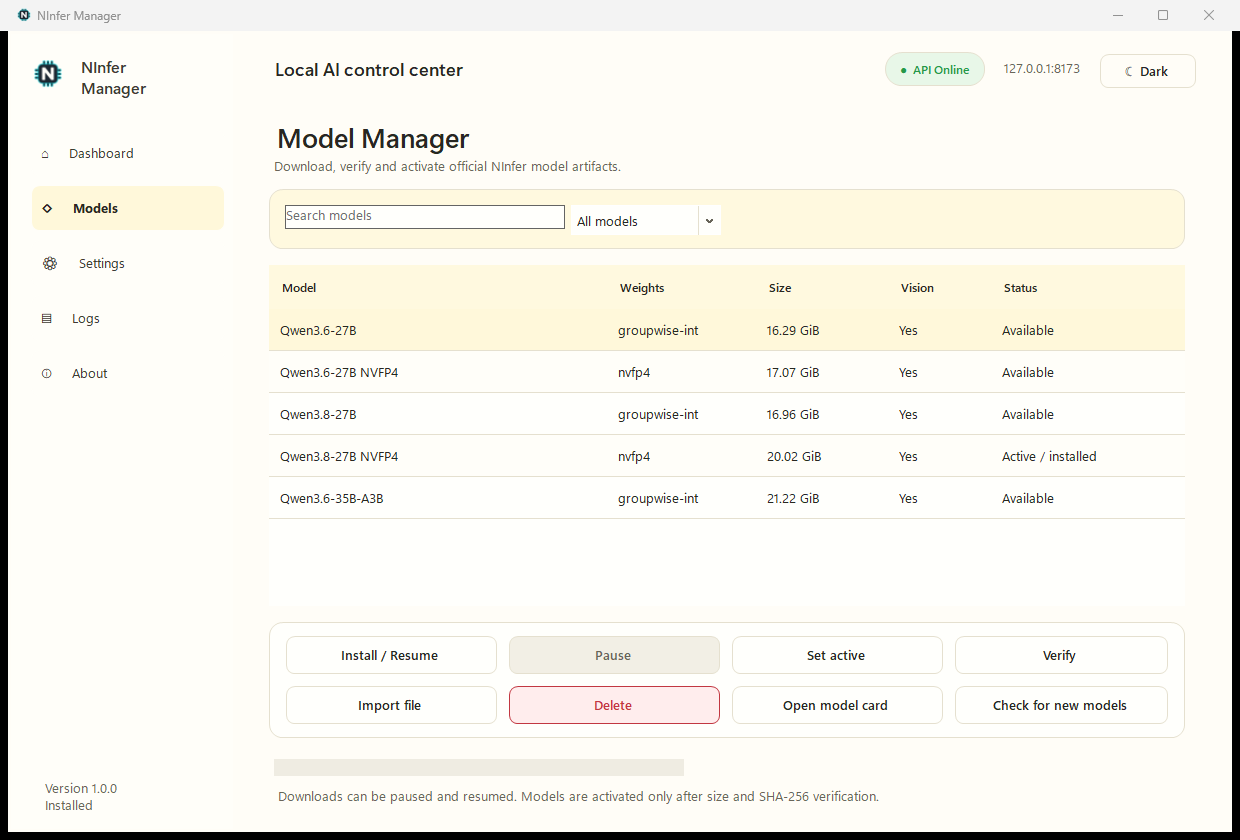
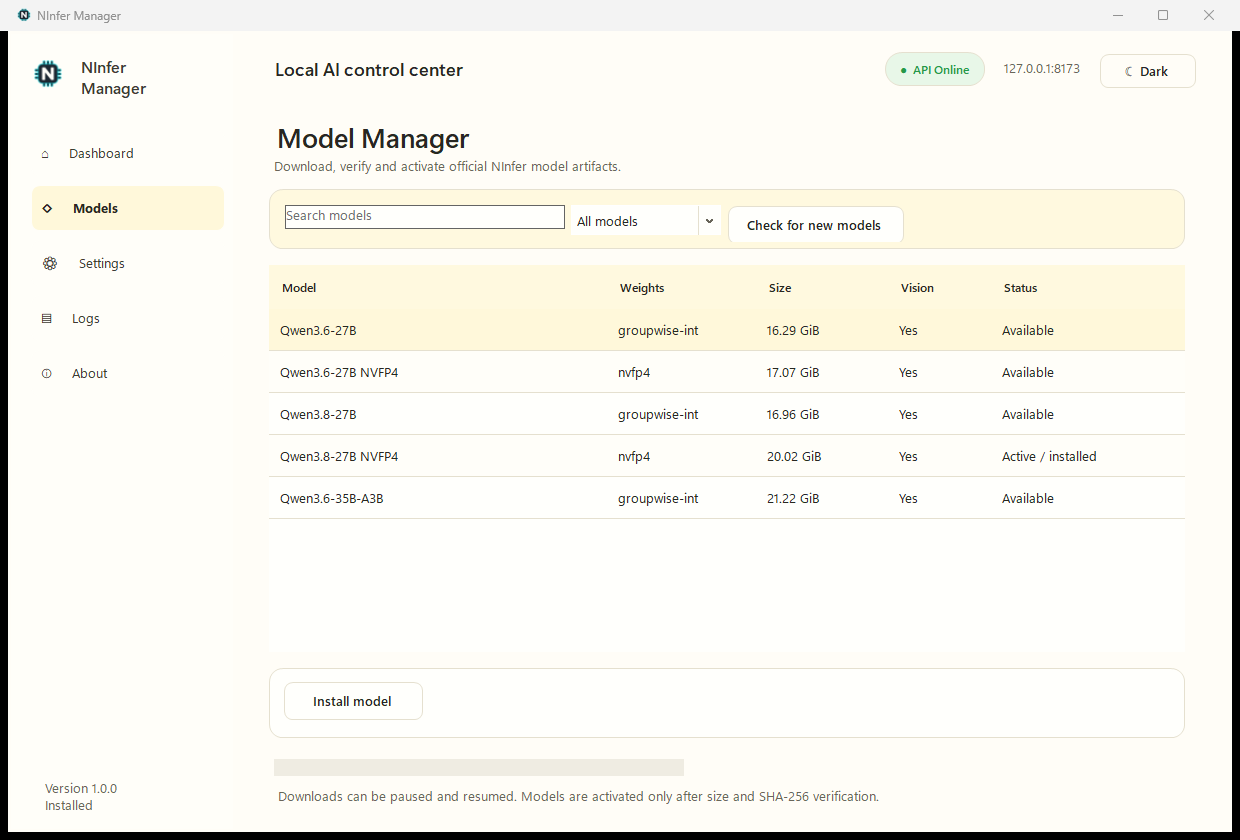
Show only relevant model actions

diff --git a/src/NInferManager/MainForm.cs b/src/NInferManager/MainForm.cs
@@ -50,6 +50,12 @@ internal sealed class MainForm : Form
     private readonly Label _modelProgressText = UiTheme.Role(new Label { Dock = DockStyle.Fill, TextAlign = ContentAlignment.MiddleLeft, AutoEllipsis = true }, ThemeRole.MutedText);
     private readonly Button _installButton = Button("Install / Resume");
     private readonly Button _cancelDownloadButton = Button("Pause", false);
+    private readonly Button _setActiveButton = Button("Set active");
+    private readonly Button _verifyButton = Button("Verify");
+    private readonly Button _deleteButton = Button("Delete", danger: true);
+    private readonly Button _openModelCardButton = Button("Open model card");
+    private readonly Button _refreshCatalogButton = Button("Check for new models");
+    private readonly RoundedPanel _modelActionsCard = UiTheme.Card();
     private readonly PropertyGrid _appPropertyGrid = new() { Dock = DockStyle.Fill, PropertySort = PropertySort.Categorized, HelpVisible = true, ToolbarVisible = true };
     private readonly PropertyGrid _profilePropertyGrid = new() { Dock = DockStyle.Fill, PropertySort = PropertySort.Categorized, HelpVisible = true, ToolbarVisible = true };
     private readonly ComboBox _profileModel = new ThemedComboBox { DropDownStyle = ComboBoxStyle.DropDownList, Width = 320 };
@@ -80,6 +86,7 @@ internal sealed class MainForm : Form
     private readonly ContextMenuStrip _trayMenu = new();
     private readonly System.Windows.Forms.Timer _visibleTimer = new() { Interval = 1000 };
     private CancellationTokenSource? _downloadCancellation;
+    private string? _downloadingModelFile;
     private CancellationTokenSource? _updateCancellation;
     private UpdateInfo? _availableUpdate;
     private bool _realExit;
@@ -312,7 +319,8 @@ internal sealed class MainForm : Form
         var filterCard = UiTheme.Card(ThemeRole.SurfaceAlt); filterCard.Dock = DockStyle.Top; filterCard.Height = 62; filterCard.Padding = new Padding(14, 8, 14, 8);
         var filters = Flow();
         _modelSearch.TextChanged += (_, _) => RefreshModels(); _modelFilter.SelectedIndexChanged += (_, _) => RefreshModels();
-        filters.Controls.Add(_modelSearch); filters.Controls.Add(_modelFilter); filterCard.Controls.Add(filters); root.Controls.Add(filterCard, 0, 1);
+        _refreshCatalogButton.Click += async (_, _) => await RefreshCatalogAsync();
+        filters.Controls.Add(_modelSearch); filters.Controls.Add(_modelFilter); filters.Controls.Add(_refreshCatalogButton); filterCard.Controls.Add(filters); root.Controls.Add(filterCard, 0, 1);
         _modelsGrid.Dock = DockStyle.Fill; _modelsGrid.ReadOnly = true; _modelsGrid.AllowUserToAddRows = false; _modelsGrid.AllowUserToDeleteRows = false;
         _modelsGrid.AutoGenerateColumns = false; _modelsGrid.SelectionMode = DataGridViewSelectionMode.FullRowSelect; _modelsGrid.MultiSelect = false;
         _modelsGrid.RowHeadersVisible = false; _modelsGrid.AutoSizeColumnsMode = DataGridViewAutoSizeColumnsMode.Fill;
@@ -324,19 +332,15 @@ internal sealed class MainForm : Form
         _modelsGrid.Columns.Add(new DataGridViewTextBoxColumn { DataPropertyName = "Status", HeaderText = "Status", FillWeight = 105 });
         _modelsGrid.SelectionChanged += (_, _) => RefreshModelButtons();
         var gridCard = UiTheme.Card(); gridCard.Dock = DockStyle.Fill; gridCard.Padding = new Padding(1); gridCard.Controls.Add(_modelsGrid); root.Controls.Add(gridCard, 0, 2);
-        var actionsCard = UiTheme.Card(); actionsCard.Dock = DockStyle.Top; actionsCard.Height = 118; actionsCard.Padding = new Padding(12, 9, 12, 9);
-        var actions = new TableLayoutPanel { Dock = DockStyle.Fill, ColumnCount = 4, RowCount = 2 };
-        for (var column = 0; column < 4; column++) actions.ColumnStyles.Add(new ColumnStyle(SizeType.Percent, 25));
-        actions.RowStyles.Add(new RowStyle(SizeType.Percent, 50)); actions.RowStyles.Add(new RowStyle(SizeType.Percent, 50));
-        _installButton.Click += async (_, _) => await StartDownloadAsync(); AddModelAction(actions, _installButton, 0, 0);
-        _cancelDownloadButton.Click += (_, _) => _downloadCancellation?.Cancel(); AddModelAction(actions, _cancelDownloadButton, 1, 0);
-        AddModelAction(actions, ActionButton("Set active", SetSelectedActiveAsync), 2, 0);
-        AddModelAction(actions, ActionButton("Verify", VerifySelectedAsync), 3, 0);
-        AddModelAction(actions, ActionButton("Import file", ImportSelectedAsync), 0, 1);
-        AddModelAction(actions, ActionButton("Delete", DeleteSelectedAsync, danger: true), 1, 1);
-        AddModelAction(actions, ActionButton("Open model card", () => { var e = SelectedEntry(); if (e is not null) OpenUrl(e.ModelCardUrl); return Task.CompletedTask; }), 2, 1);
-        AddModelAction(actions, ActionButton("Check for new models", RefreshCatalogAsync), 3, 1);
-        actionsCard.Controls.Add(actions); root.Controls.Add(actionsCard, 0, 3);
+        _modelActionsCard.Dock = DockStyle.Top; _modelActionsCard.Height = 72; _modelActionsCard.Padding = new Padding(12, 9, 12, 9);
+        var actions = new FlowLayoutPanel { Dock = DockStyle.Fill, WrapContents = false, Padding = new Padding(0, 2, 0, 0) };
+        _installButton.Click += async (_, _) => await StartDownloadAsync(); actions.Controls.Add(_installButton);
+        _cancelDownloadButton.Click += (_, _) => _downloadCancellation?.Cancel(); actions.Controls.Add(_cancelDownloadButton);
+        _setActiveButton.Click += async (_, _) => await RunButtonActionAsync(_setActiveButton, SetSelectedActiveAsync); actions.Controls.Add(_setActiveButton);
+        _verifyButton.Click += async (_, _) => await RunButtonActionAsync(_verifyButton, VerifySelectedAsync); actions.Controls.Add(_verifyButton);
+        _deleteButton.Click += async (_, _) => await RunButtonActionAsync(_deleteButton, DeleteSelectedAsync); actions.Controls.Add(_deleteButton);
+        _openModelCardButton.Click += (_, _) => { var entry = SelectedEntry(); if (entry is not null) OpenUrl(entry.ModelCardUrl); }; actions.Controls.Add(_openModelCardButton);
+        _modelActionsCard.Controls.Add(actions); root.Controls.Add(_modelActionsCard, 0, 3);
         var progress = new TableLayoutPanel { Dock = DockStyle.Fill, ColumnCount = 2, AutoSize = true };
         progress.ColumnStyles.Add(new ColumnStyle(SizeType.Percent, 45)); progress.ColumnStyles.Add(new ColumnStyle(SizeType.Percent, 55));
         progress.Controls.Add(_modelProgress, 0, 0); progress.Controls.Add(_modelProgressText, 1, 0); root.Controls.Add(progress, 0, 4);
@@ -597,7 +601,27 @@ internal sealed class MainForm : Form
     }
 
     private ModelCatalogEntry? SelectedEntry() => (_modelsGrid.CurrentRow?.DataBoundItem as ModelRow)?.Entry;
-    private void RefreshModelButtons() { _installButton.Enabled = SelectedEntry() is not null && _downloadCancellation is null; }
+    private void RefreshModelButtons()
+    {
+        var entry = SelectedEntry();
+        _modelActionsCard.Visible = entry is not null;
+        if (entry is null) return;
+        var installed = _downloads.IsInstalled(entry);
+        var active = _settings.ActiveModelFile.Equals(entry.FileName, StringComparison.OrdinalIgnoreCase);
+        var downloading = _downloadCancellation is not null && string.Equals(_downloadingModelFile, entry.FileName, StringComparison.OrdinalIgnoreCase);
+        var partial = File.Exists(_downloads.GetModelPath(entry) + ".part");
+
+        _installButton.Text = partial ? "Resume download" : "Install model";
+        _installButton.AccessibleName = _installButton.Text;
+        _installButton.Visible = !installed && !downloading;
+        _installButton.Enabled = _downloadCancellation is null;
+        _cancelDownloadButton.Visible = downloading;
+        _cancelDownloadButton.Enabled = downloading;
+        _setActiveButton.Visible = installed && !active;
+        _verifyButton.Visible = installed;
+        _deleteButton.Visible = installed;
+        _openModelCardButton.Visible = installed;
+    }
 
     private async Task StartDownloadAsync()
     {
@@ -607,12 +631,12 @@ internal sealed class MainForm : Form
                 "This model was discovered in the official upstream catalog after this Manager release. It may require a newer NInfer engine. Continue with the download?",
                 "New upstream model", MessageBoxButtons.YesNo, MessageBoxIcon.Information) != DialogResult.Yes) return;
         _downloadCancellation = new CancellationTokenSource();
-        _cancelDownloadButton.Enabled = true; _installButton.Enabled = false;
+        _downloadingModelFile = entry.FileName; RefreshModelButtons();
         var progress = new Progress<DownloadProgress>(p => { _modelProgress.Value = p.Percent; _modelProgressText.Text = p.Description + (p.BytesPerSecond > 0 ? $" — {p.BytesPerSecond / 1024d / 1024d:0.0} MiB/s" : ""); });
         try { await _downloads.DownloadAsync(entry, progress, _downloadCancellation.Token); MessageBox.Show("The model was downloaded and verified successfully.", Text); }
         catch (OperationCanceledException) { _modelProgressText.Text = "Download paused. Select Install / Resume to continue."; }
         catch (Exception exception) { _logger.Write("Model download failed", exception); MessageBox.Show(exception.Message, "Download failed", MessageBoxButtons.OK, MessageBoxIcon.Error); }
-        finally { _downloadCancellation.Dispose(); _downloadCancellation = null; _cancelDownloadButton.Enabled = false; RefreshModels(); }
+        finally { _downloadCancellation.Dispose(); _downloadCancellation = null; _downloadingModelFile = null; RefreshModels(); }
     }
 
     private async Task SetSelectedActiveAsync()
@@ -647,7 +671,9 @@ internal sealed class MainForm : Form
         var entry = SelectedEntry(); if (entry is null) return;
         if (MessageBox.Show($"Move {entry.DisplayName} to the Recycle Bin?", "Delete model", MessageBoxButtons.YesNo, MessageBoxIcon.Warning) != DialogResult.Yes) return;
         if (_engine.IsLoaded && _settings.ActiveModelFile.Equals(entry.FileName, StringComparison.OrdinalIgnoreCase)) await _engine.UnloadAsync("active model deletion");
-        _downloads.Delete(entry); RefreshModels();
+        _downloads.Delete(entry);
+        if (_settings.ActiveModelFile.Equals(entry.FileName, StringComparison.OrdinalIgnoreCase)) { _settings.ActiveModelFile = string.Empty; _settingsStore.Save(_settings); }
+        RefreshModels(); RefreshUi();
     }
 
     private async Task RefreshCatalogAsync()
@@ -909,16 +935,7 @@ internal sealed class MainForm : Form
         table.Controls.Add(UiTheme.Role(new Label { Text = description, AutoSize = true, MaximumSize = new Size(420, 0), Padding = new Padding(0, 9, 0, 9) }, ThemeRole.MutedText), 2, row);
     }
     private static void AddAction(FlowLayoutPanel flow, string text, Func<Task> action, bool primary = false, bool danger = false) { var button = Button(text, true, primary, danger); button.Click += async (_, _) => { button.Enabled = false; try { await action(); } finally { if (!button.IsDisposed) button.Enabled = true; } }; flow.Controls.Add(button); }
-    private static Button ActionButton(string text, Func<Task> action, bool primary = false, bool danger = false)
-    {
-        var button = Button(text, true, primary, danger);
-        button.Click += async (_, _) => { button.Enabled = false; try { await action(); } finally { if (!button.IsDisposed) button.Enabled = true; } };
-        return button;
-    }
-    private static void AddModelAction(TableLayoutPanel table, Button button, int column, int row)
-    {
-        button.AutoSize = false; button.Dock = DockStyle.Fill; button.Margin = new Padding(5); table.Controls.Add(button, column, row);
-    }
+    private static async Task RunButtonActionAsync(Button button, Func<Task> action) { button.Enabled = false; try { await action(); } finally { if (!button.IsDisposed) button.Enabled = true; } }
 
     private sealed record ModelRow(ModelCatalogEntry Entry, string Status)
     {

diff --git a/CHANGELOG.md b/CHANGELOG.md
@@ -6,6 +6,7 @@
 - Redesigned dashboard with live VRAM, configured context and GPU rings, profile chips, quick actions and a compact activity summary.
 - Unified card-based visual language across Models, Settings, Logs, About, setup and port recovery.
 - Correctly rounded, unclipped buttons and status pills, responsive model actions, and fully themed dark inputs, menus, scrollbars and advanced settings.
+- Context-sensitive Model Manager actions: unavailable models show only Install, while installed and active models expose only valid management actions.
 - Modern lightweight WinForms application and notification-area controls.
 - Clean no-model first run with a skippable Setup Wizard.
 - Automatic free-port recovery, exact-port locking, and temporary or saved port changes.

diff --git a/docs/USER_GUIDE.md b/docs/USER_GUIDE.md
@@ -32,6 +32,11 @@ returns an empty `/v1/models` list until a model is activated.
 
 ## Models
 
+The action area follows the selected model. An unavailable model shows only
+**Install model**; a partial download shows **Resume download**; an active
+download shows **Pause**; and installed models show only the applicable
+activate, verify, delete and model-card actions.
+
 - **Install / Resume** downloads from the model's official Hugging Face
   repository and resumes an interrupted `.part` file.
 - **Verify** checks the complete file against the official SHA-256.
